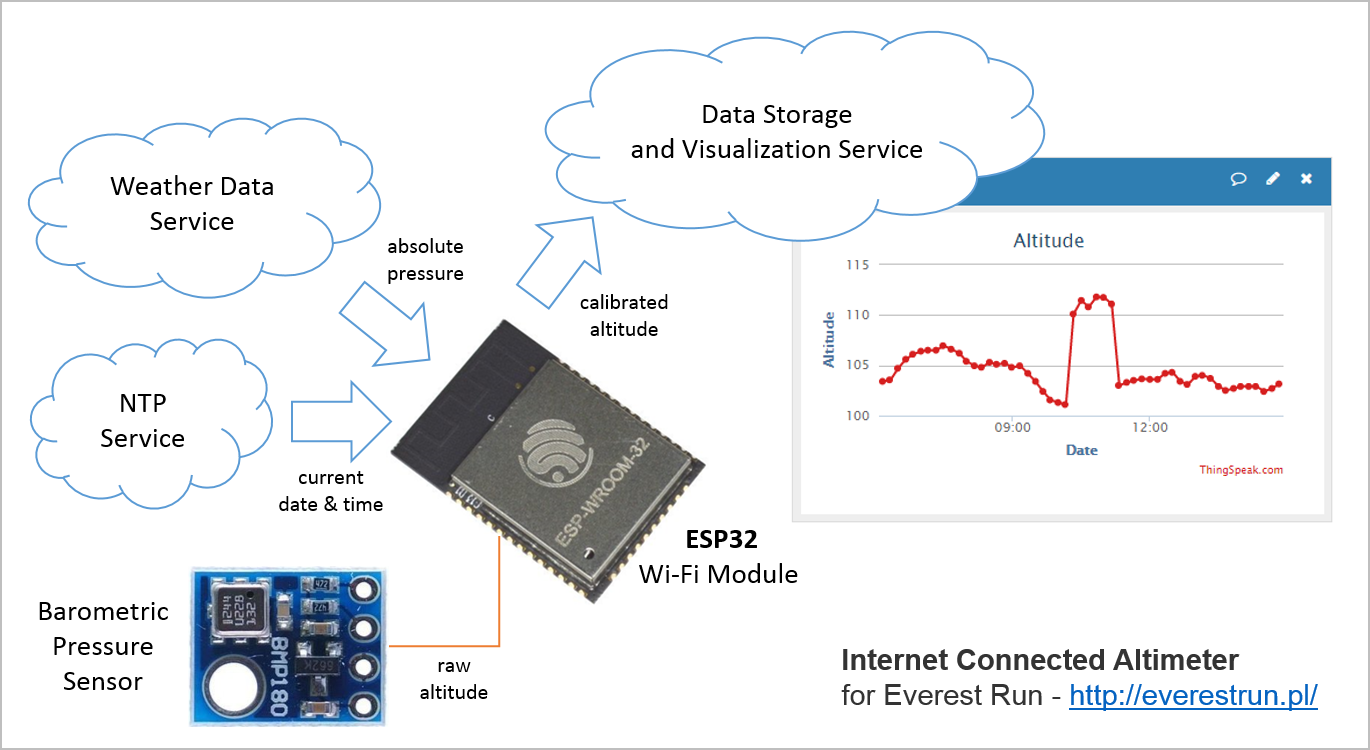
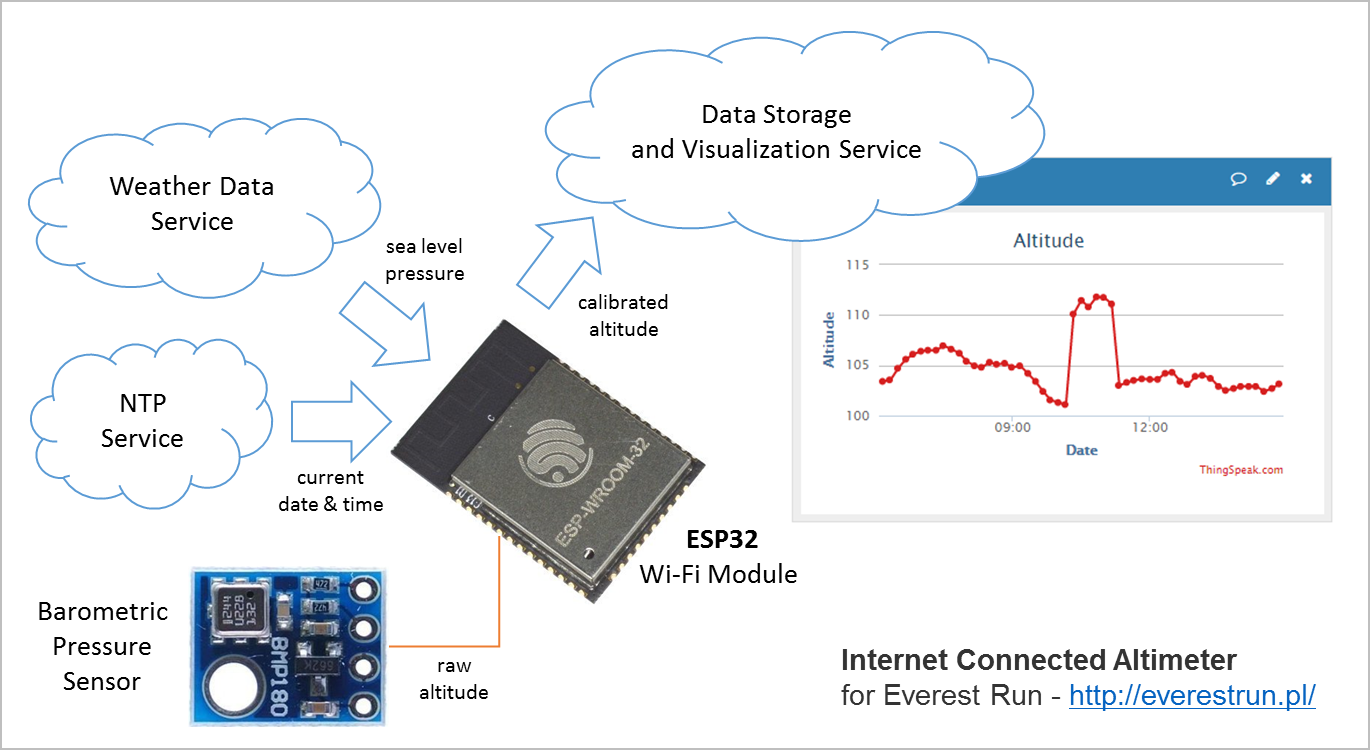
"Sea level pressure" term update

diff --git a/main/altimeter.c b/main/altimeter.c
@@ -41,10 +41,10 @@ static const char* TAG = "Altimeter";
 */
 #define I2C_PIN_SDA 25
 #define I2C_PIN_SCL 27
-#define BP180_SENSOR_READ_PERIOD 15000
+#define BP180_SENSOR_READ_PERIOD 20000
 altitude_data altitude_record;
 
-#define WEATHER_DATA_REREIVAL_PERIOD 15000
+#define WEATHER_DATA_REREIVAL_PERIOD 20000
 weather_data weather = {0};
 
 void weather_data_retreived(uint32_t *args)
@@ -94,6 +94,7 @@ void bmp180_task(void *pvParameter)
         if (weather.pressure > 0){
             sea_level_pressure = weather.pressure * 100l;
         }
+        altitude_record.sea_level_pressure = sea_level_pressure;
         altitude_record.altitude = bmp180_read_altitude(sea_level_pressure);
         ESP_LOGI(TAG, "Altitude (BMP180) %0.1f m", altitude_record.altitude);
 
@@ -132,7 +133,7 @@ void app_main()
 
     esp_err_t err = bmp180_init(I2C_PIN_SDA, I2C_PIN_SCL);
     if(err == ESP_OK){
-        xTaskCreate(&bmp180_task, "bmp180_task", 2048, NULL, 5, NULL);
+        xTaskCreate(&bmp180_task, "bmp180_task", 3 * 1024, NULL, 5, NULL);
         ESP_LOGI(TAG, "BMP180 read task started");
     } else {
         ESP_LOGE(TAG, "BMP180 init failed with error = %d", err);

diff --git a/README.md b/README.md
@@ -20,7 +20,7 @@ Internet connected altimeter for Everest Run - http://everestrun.pl/
 - [x] Prepare a prototype using ESP32-DevKitJ-v1 development board
 - [x] Develop an I2C driver to read altitude from BMP180 sensor
 - [x] Synchronize time on ESP32 by obtaining it from a NTP server
-- [x] Implement compensation of altitude measurement using absolute pressure obtained on-line
+- [x] Compensate altitude measurement using sea level pressure](https://en.wikipedia.org/wiki/Atmospheric_pressure#Mean_sea_level_pressure) obtained on-line
 - [x] Publish altitude measurements in real time on [ThingSpeak]( https://thingspeak.com/channels/208884)
 - [ ] Implement data buffering on ESP32 for the period of likely Wi-Fi connection losses
 - [ ] Build lightweight, battery powered altimeter using bare [ESP-WROOM-32](https://espressif.com/en/products/hardware/esp-wroom-32/overview) module
